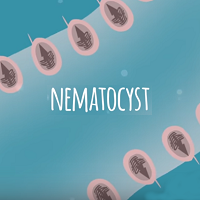
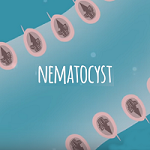
css fix

diff --git a/infographic/index.html b/infographic/index.html
@@ -16,7 +16,7 @@
 </head>
 
 <body >
-	<div id="wrapper">
+	<div id="pagewrapper">
 		<section id="intro">	
 			<div id="island"><img src="img/intro.png" alt="island"/></div>		
 			<div id="title">
@@ -25,79 +25,87 @@
 				</div>
 		</section>
 		<section id="jellyinfo">
-			<div class="row">
-				<div id ="swimmingfish" class="col-md-4 swimmingfish"><img src="img/fishes1.png" alt="fishes" class="fishes"/></div>
-				<div id="swimmingjelly" class="col-md-2 swing1"><img src="img/fish11.png" alt="jellyfish"/></div>
-				<div id="boat" class="col-md-4 swing"><img src="img/uboat.png" alt="uboat"/></div>
-			</div>
-			<div class="col-md-5 col-xs-2 swimmer swing rotate" ><img src="img/swimmer.png" alt="swimmer" id="swimmer"></div>
-			<div id="describe" class="col-md-5">
-				<h2> Have you ever been stung by a jellyfish?</h2>
-				<p>You are simming in the ocean when something brushed your leg. When the tingling
-					sets in, you realieze you've been stung by a jellyfish.				
-				<br>How do these beautiful, gelatinous creatures pack such a painful punch?
-				</p>
-			</div>
-			<div id="weapon" class="row">
-				<div class="col-md-4 jellyfish">
-					<p><img src="img/fisk.png" alt="jellyfisk" class= "jelly"/></p>
-					<p>They are <span class="big"> 95% </span>water
-					<br>No bones
-					<br>No brain </p>
+			<div class="wrapper">
+				<div class="row">
+					<div id ="swimmingfish" class="col-md-4 swimmingfish"><img src="img/fishes1.png" alt="fishes" class="fishes"/></div>
+					<div id="swimmingjelly" class="col-md-2 swing1"><img src="img/fish11.png" alt="jellyfish"/></div>
+					<div id="boat" class="col-md-4 swing"><img src="img/uboat.png" alt="uboat"/></div>
 				</div>
-				<div class="col-md-4 jellyfish">
-					<p><img src="img/mesoglea.png" alt="mesoglea" class="jelly"/></p>
-					<p>They are mostly made of a translucent gel-like substance called
-						<span class="big">mesoglea </span>water
-					</p>
-				</div>
-				<div class="col-md-4 jellyfish ">
-					<p><img src="img/cnydocytes.png" alt="cnidocytes" class=" jelly"/></p>
-					<p>With such dedicate bodies, they rely on thounsands of venom-containing
-						stinging cells called <span class="big"> cnidocytes </span>water
+				<div class="col-md-5 col-xs-1 swimmer swing rotate" ><img src="img/swimmer.png" alt="swimmer" id="swimmer"></div>
+				<div id="describe" class="col-md-5">
+					<h2> Have you ever been stung by a jellyfish?</h2>
+					<p>You are simming in the ocean when something brushed your leg. <span class="lead">Ajooooo</span> you realieze you've been stung by a jellyfish.				
+					<br>How do these beautiful, gelatinous creatures pack such a painful punch?
 					</p>
 				</div>
 			</div>
+			<div class="wrapper">
+				<div id="weapon" class="row">
+					<div class="col-md-4  jellyfish">
+						<p><img src="img/fisk.png" alt="jellyfisk" class= "jelly"/></p>
+						<p>They are <span class="big"> 95% </span>water
+						<br>No bones
+						<br>No brain </p>
+					</div>
+					<div class="col-md-4  jellyfish">
+						<p><img src="img/mesoglea.png" alt="mesoglea" class="jelly"/></p>
+						<p>They are mostly made of a translucent gel-like substance called
+							<span class="big">mesoglea </span>water
+						</p>
+					</div>
+					<div class="col-md-4  jellyfish ">
+						<p><img src="img/cnydocytes.png" alt="cnidocytes" class=" jelly"/></p>
+						<p>With such dedicate bodies, they rely on thounsands of venom-containing
+							stinging cells called <span class="big"> cnidocytes </span>water
+						</p>
+					</div>
+				</div>
+			</div>			
 			<div id="growUp" class="row sanho">	
-				<div class="col-md-4 jellyfish">
-				</div>				
-				<div class="col-md-4 jellyfish">
-					<p><img src="img/ephyrae.png" alt="ephyrae" class="jelly"/></p>
-					<p>Larvaljellyfish, <span class="big">ephyrae, </span>look like tiny flowers pulsating in the sea
-					</p>
+				<div class="wrapper">
+					<div class="col-md-4 jellyfish">
+					</div>				
+					<div class="col-md-4 jellyfish">
+						<p><img src="img/ephyrae.png" alt="ephyrae" class="jelly"/></p>
+						<p>Larvaljellyfish, <span class="big">ephyrae, </span>look like tiny flowers pulsating in the sea
+						</p>
+					</div>
+					<div class="col-md-4 jellyfish">
+						<p><img src="img/fisk1.png" alt="jellyfish" class="jelly"/></p>
+						<p>They become umbrella-shaped with a bell at the top when they grow.
+						</p>
+					</div>
 				</div>
-				<div class="col-md-4 jellyfish">
-					<p><img src="img/fisk1.png" alt="jellyfish" class="jelly"/></p>
-					<p>They become umbrella-shaped with a bell at the top when they grow.
-					</p>
-				</div>
-			</div>
+			</div>				
 			<div id="giant">
+				<div class="wrapper">
 					<h3>Lion's mane</h3>
 					<p>The largest jellyfish,<span class="big"> lion's mane</span>, is longer than a blue whale. </p>
-					<div id="lionMane"><img src="img/lionMane.png" alt="Lion's' Mane"/></div>
-			</div>
+				</div>	
+				<div id="lionMane"><img src="img/lionMane.png" alt="Lion's' Mane"/></div>				
+			</div>							
 			<div id="poison">
-				<section >
+				<div class="wrapper">
 					<h3>Why is that sooo painful?</h3>
 					<div class="nematocyst">
-						<div id="grow" class="leftPic">
-							<img src="img/xuctu.png" data-zoom-imgae="img/xuctu3.ong" alt="nematocyst"/>
+						<div id="grow" class="leftPic grow">
+							<img src="img/xuctu3.png" data-zoom-imgae="img/xuctu3.ong" alt="nematocyst"/>
 						</div>						
 						<div class="rightDescribe">
 							<p>	Venom is ejected via a <span class="big">nematocyst</span>, 
 								a whip-like hollow tubule, which lies coiled under high osmotic pressure.
 							</p>
 						</div>
-					</div>	
+					</div>
+					
 					<div class="mechanic row">	
 						<div class="col-4 tentacles">
 							<img src="img/nematocyst11.png" alt="nematocyst" class="fish"/>
-							<p> When mechanical or chemical stimuli activate an external trigger, </p>
+							<p> When mechanical or chemical stimuli activate an external trigger. </p>
 						</div>
 						<div class="col-4 tentacles">
 							<img src="img/nematocyst2.png" alt="nematocyst" class="fish"/>
-							<p> the lid of the cell pops open and sea water rushed in.</p>
+							<p> The lid of the cell pops open and sea water rushed in.</p>
 						</div>
 						<div class="col-4 tentacles">
 							<img src="img/nematocyst3.png" alt="nematocyst" class="fish"/>
@@ -109,18 +117,12 @@
 							</p>
 						</div>
 					</div>
-				</section>
+				</div>
 			</div>	
-		</section>	
-		
+		</section>		
 	</div>
 	<!--Import jQuery before materialize.js-->
       <script type="text/javascript" src="https://code.jquery.com/jquery-2.1.1.min.js"></script>
       <script src="https://cdnjs.cloudflare.com/ajax/libs/materialize/0.97.2/js/materialize.min.js"></script>
-	  <script src="script/jquery.elevatezoom.js"></script>	
-	  <script>$(document).ready(function(){
-		$("#grow").elevateZoom({tint:true, tintColour:'#F90', tintOpacity:0.5});
-			});
-	</script>
 </body>
 </html>

diff --git a/infographic/css/style.css b/infographic/css/style.css
@@ -25,13 +25,14 @@ body,div .page-wrapper, h1, h2, h3, ui li, abbr, :link,:visited {
     text-transform: capitalize;
   }
   
-  #wrapper{
+  #pagewrapper{
     max-width: 1022px;
     margin: auto;
     width: auto;
     background-color: #2F778C;
     font-size: 20px;
   }
+  
  /*------------INTRO------------*/
  
  #intro{
@@ -249,29 +250,36 @@ body,div .page-wrapper, h1, h2, h3, ui li, abbr, :link,:visited {
   position: relative;
 }
 
-.grow{  
-  display: inline-block;
-  /*max-width: 150px;
-  max-height: 150px;*/
-  border-radius: 10px;
-  border: 6px solid #7CA7BA;
+.grow{
+  width: 150px;
+  height: 150px;
+  margin: auto;
   overflow: hidden;
-  margin-right: 2rem;
-
+  border-radius: 10px;
+  border: 6px solid #7CA7BA; 
 }
+
 .grow img{
-  max-width: 150px;
-  max-height: 150px;
-   -webkit-transition:   1s ease;
-   -moz-transition:  1s ease;
-   -o-transition:  1s ease;
-   -ms-transition:  1s ease;
-   transition:  2s ease;
+  width: 150px;
+  height: 150px;
+  overflow: hidden;
+  
+   -webkit-transition: all 1s ease;
+     -moz-transition: all 1s ease;
+       -o-transition: all 1s ease;
+      -ms-transition: all 1s ease;
+          transition: all 1s ease;
 }
 
 .grow img:hover{
   width: 400px;
   height: 400px;
+  margin-top: -100px;
+}
+
+.row{
+  clear: both;
+  text-align: center;
 }
 
 .mechanic{
@@ -280,8 +288,13 @@ body,div .page-wrapper, h1, h2, h3, ui li, abbr, :link,:visited {
   margin-top: 3rem;
   position: relative;
   display: inline-block; 
-  background: url(../img/arrow.png) no-repeat 300px 65px,  url(../img/arrow.png)no-repeat 650px 65px;
 }
+
+.mechanic div:nth-child(-n+2){
+  background: url(../img/arrow.png) no-repeat 250px 
+  50px;
+}
+
 .tentacles img{
   width: 150px;
   height: 150px;
@@ -344,7 +357,10 @@ body,div .page-wrapper, h1, h2, h3, ui li, abbr, :link,:visited {
 }
 
 @media all and (max-width: 768px) {  
-
+  .wrapper{
+    max-width: 90%;
+    margin: auto;
+  }
   #swimmingfish, #fish, #boat{
     display: none;
   }
@@ -352,16 +368,13 @@ body,div .page-wrapper, h1, h2, h3, ui li, abbr, :link,:visited {
   #swimmer{
     position: relative;
     top:-200px;
-    left:10px;
+    left:30px
   }
-  
+   
   #swimmingjelly{
     position: relative;
-    left: 50px;
+    left: 80px;
     z-index: 2;
-  }
-  #jellyinfo{
-    max-width: 95%;
   }
   
   #title{
@@ -386,9 +399,29 @@ body,div .page-wrapper, h1, h2, h3, ui li, abbr, :link,:visited {
     width: 100%;
   }
   
-  .mechanic{ 
-    max-width: 80%;  
-  background: url(../img/arrow.png) no-repeat 20px 280px,  url(../img/arrow.png)no-repeat 20px 520px;  
+  .col-5{
+    width: 100%;
+  }
+  
+  .mechanic div:nth-child(-n+2){
+  background: url(../img/downarrow.png) no-repeat 180px 220px ;
+  }
+  .mechanic div{
+    position: relative;
+    padding-bottom: 80px;
+  }
+}
+
+@media all and (max-width: 456px) {  
+  .mechanic div:nth-child(-n+2){
+  background: url(../img/downarrow.png) no-repeat 130px 220px ;
+  }
+  
+  #swimmer{
+    position: relative;
+    top:-200px;
+    left:-10px;
+    max-width:150px;
   }
 }
    
